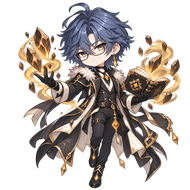
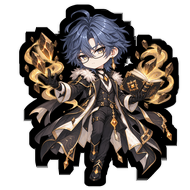
fix: polish Nerasio presentation

diff --git a/public/board.html b/public/board.html
@@ -458,7 +458,7 @@
       filter:drop-shadow(0 8px 18px rgba(0,0,0,.65)); }
   #spellCard .spHead { position:absolute; z-index:8; top:3.1%; left:4.7%; right:4.7%; height:9.5%;
       display:grid; grid-template-columns:11.5% 1fr 11.5%; align-items:center; }
-  #spellCard .spName { grid-column:2; color:#fff4d5; font:700 6.2vh/1 Marudeco,sans-serif; text-align:center;
+  #spellCard .spName { grid-column:2; min-width:0; color:#fff4d5; font:700 6.2vh/1 Marudeco,sans-serif; text-align:center;
       white-space:nowrap; text-shadow:0 2px 6px rgba(10,5,25,.9); }
   #spellCard .scCost { position:absolute; z-index:13; top:65.2%; left:3.2%; width:24%; aspect-ratio:320/112; }
   #spellCard .scCost .frame { position:absolute; inset:0; width:100%; height:100%; }
@@ -2858,7 +2858,7 @@ function spellCardHTML(sid) {
   const dedicated = dedicatedSpellAsset(sid);
   const bg = dedicated || '/assets/cards/bg-spell-v1.webp';
   const fallback = dedicated ? '' : `<img class="spFallback" src="/assets/c_${sid}.png" onerror="this.style.display='none'">`;
-  const nameSize = sp.name.length <= 6 ? '6.2vh' : sp.name.length <= 9 ? '5.1vh' : '4.2vh';
+  const nameSize = sp.name.length <= 6 ? '6.2vh' : sp.name.length <= 8 ? '5.1vh' : '4.2vh';
   return `<img class="spBg" src="${bg}">${fallback}<div class="spHead"><div class="spName" style="font-size:${nameSize}">${sp.name}</div></div>
     <div class="scCost"><img class="frame" src="/assets/cards/cost-frame.svg"><img class="coin" src="/assets/cards/cost-coin.svg"><b>${sp.cost || 0}G</b></div>
     <div class="scBrush"></div><div class="spInfo"><h3>【呪文効果】</h3><p>${sp.desc}</p></div>

diff --git a/public/phone.html b/public/phone.html
@@ -477,6 +477,7 @@
   .cdHero .csBg { position:absolute; inset:0; width:100%; height:100%; object-fit:cover; z-index:-2; }
   .cdHero .cdArt { position:absolute; inset:10% 2% 2%; width:96%; height:88%; object-fit:contain;
       filter:drop-shadow(0 0 7px rgba(255,255,255,.48)) drop-shadow(0 7px 12px rgba(0,0,0,.55)); }
+  .cdHero .cdArt.cdArtNerasio { inset:2% -8% -8%; width:116%; height:106%; }
   .cdHero .cdName { position:absolute; z-index:3; top:3%; left:5%; right:5%; color:#fff4d5;
       font:700 clamp(18px,4dvh,34px)/1 Marudeco,sans-serif; text-align:center; text-shadow:0 2px 5px #000; }
   .cdBody { min-width:0; min-height:0; display:flex; flex-direction:column; gap:1.2dvh; }
@@ -1745,7 +1746,7 @@ function openCharDetail(id, readonly = false) {
   charPreview = id;
   const elemJa = { fire:'火', water:'水', earth:'土', wind:'風' }[c.elem] || '';
   $('charDetail').innerHTML = `<div class="cdHero"><img class="csBg" src="/assets/cards/bg-${c.elem}.webp" alt="">
-      <div class="cdName">${c.name}</div><img class="cdArt" src="/assets/full_${id}.png" alt="${c.name}"></div>
+      <div class="cdName">${c.name}</div><img class="cdArt${id === 'nerasio' ? ' cdArtNerasio' : ''}" src="/assets/full_${id}.png" alt="${c.name}"></div>
     <div class="cdBody"><div class="cdInfo">
       <div class="cdSec"><h2>${sic('ult','2.5dvh')}【${u ? u.name : '固有スキル'}】</h2>${u ? u.desc : ''}</div>
       <div class="cdSec"><h2>属性親和：${elemJa}</h2>同属性の土地の強化費を20%軽減する。</div>

diff --git a/v130_nerasio_test.js b/v130_nerasio_test.js
@@ -135,7 +135,14 @@ ok(phone.includes("'ult_nerasio_land'") && phone.includes("p.type === 'ult_neras
   'phone implements map selection and element selection');
 ok(phone.includes('選択中 ${selected.length}/${multiMax}') && phone.includes('multiMax = p.type === \'ult_nerasio_land\' ? 2 : 3'),
   'phone clearly displays the two-land selection limit');
+ok(phone.includes("cdArt${id === 'nerasio' ? ' cdArtNerasio' : ''}") &&
+   phone.includes('.cdHero .cdArt.cdArtNerasio'),
+  'Nerasio uses the enlarged summoner-detail artwork treatment');
 ok(!phone.includes('data-id="upcoming-earth"'),'obsolete upcoming earth placeholder is removed');
+const board = fs.readFileSync(path.join(__dirname,'public','board.html'),'utf8');
+ok(board.includes("sp.name.length <= 8 ? '5.1vh' : '4.2vh'") &&
+   board.includes('#spellCard .spName { grid-column:2; min-width:0;'),
+  'long spell names use the compact TV card heading without overflow');
 for (const asset of ['full_nerasio.png','p_nerasio.png','f_nerasio.png','hud_nerasio.png',
   'summoner-still-nerasio.webp','ult_nerasio.webp'])
   ok(fs.existsSync(path.join(__dirname,'public','assets',asset)), asset + ' exists');
